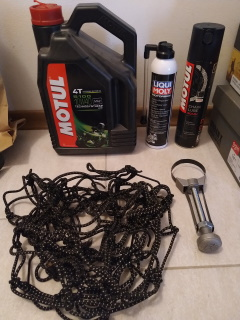
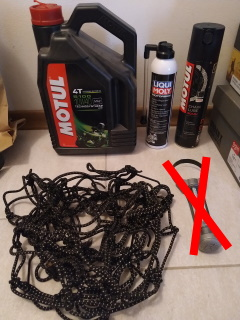
remove gear

Changed region(s): [[0.6708, 0.4688, 0.9625, 0.8125]]

diff --git a/index.html b/index.html
@@ -35,7 +35,7 @@
 			<li>
 				<h2>Мото аксесоари</h2>
 				<p>
-					Мрежа за багаж, ключ за маслен филтър, около 1л масло, спрей за спукана гума и смазка за верига.
+					Мрежа за багаж, около 1л масло, спрей за спукана гума и смазка за верига.
 				</p>
 				<a href="images/moto-gear.jpg" target="_blank"><img src="images/moto-gear-small.jpg" /></a>
 			</li>
